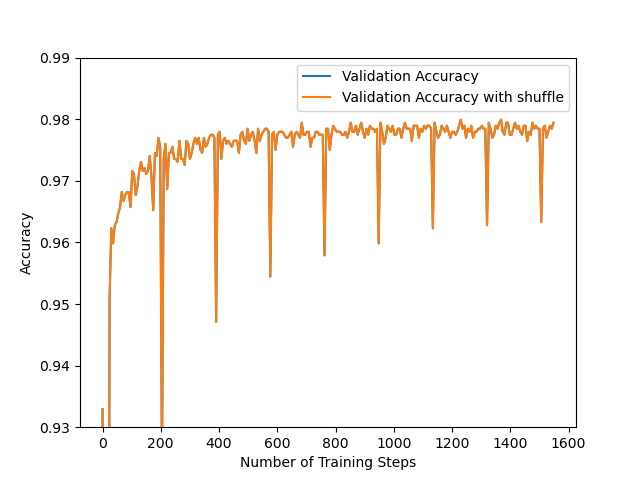
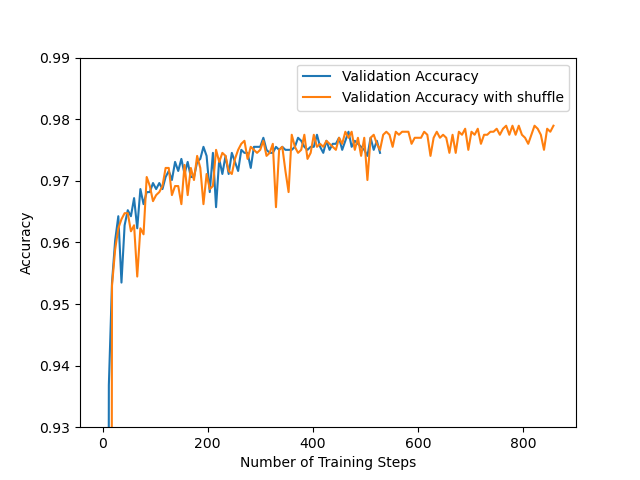
finished 2

diff --git a/assignment1/trainer.py b/assignment1/trainer.py
@@ -36,6 +36,7 @@ class BaseTrainer:
         Returns:
             loss value (float) on batch
         """
+        
         pass
 
     def train_step(self):
@@ -72,6 +73,9 @@ class BaseTrainer:
             accuracy={}
         )
 
+        nonimprovement_count = 0
+        lowest_val_loss = np.inf
+
         global_step = 0
         for epoch in range(num_epochs):
             train_loader = utils.batch_loader(
@@ -89,6 +93,19 @@ class BaseTrainer:
                     val_history["accuracy"][global_step] = accuracy_val
 
                     # TODO (Task 2d): Implement early stopping here.
+
+                    if val_loss < lowest_val_loss:
+                        nonimprovement_count = 0
+                        lowest_val_loss = val_loss
+                    else:
+                        nonimprovement_count += 1
+
+                    if nonimprovement_count > 10:
+                        print("Stopped early at val_loss ", val_loss)
+                        print("Minimum val_loss was ", lowest_val_loss)
+                        return train_history,val_history
+
+
                     # You can access the validation loss in val_history["loss"]
                 global_step += 1
         return train_history, val_history

diff --git a/assignment1/utils.py b/assignment1/utils.py
@@ -6,7 +6,7 @@ import matplotlib.pyplot as plt
 
 def batch_loader(
         X: np.ndarray, Y: np.ndarray,
-        batch_size: int, shuffle=False,
+        batch_size: int, shuffle: bool,
         drop_last=True) -> Generator:
     """
     Creates a batch generator over the whole dataset (X, Y) which returns a generator iterating over all the batches.
@@ -25,7 +25,12 @@ def batch_loader(
         num_batches = int(np.ceil(len(X) / batch_size))
     indices = list(range(len(X)))
 
+
     # TODO (task 2e) implement dataset shuffling here.
+    if shuffle:
+        np.random.shuffle(indices)
+        
+
 
     for i in range(num_batches):
         # select a set of indices for each batch of samples

diff --git a/assignment1/task2.py b/assignment1/task2.py
@@ -77,10 +77,10 @@ class LogisticTrainer(BaseTrainer):
 
 if __name__ == "__main__":
     # hyperparameters DO NOT CHANGE IF NOT SPECIFIED IN ASSIGNMENT TEXT
-    num_epochs = 50
+    num_epochs = 500 #changed in 2d
     learning_rate = 0.05
     batch_size = 128
-    shuffle_dataset = False
+    shuffle_dataset = True
 
     # Load dataset
     category1, category2 = 2, 3
